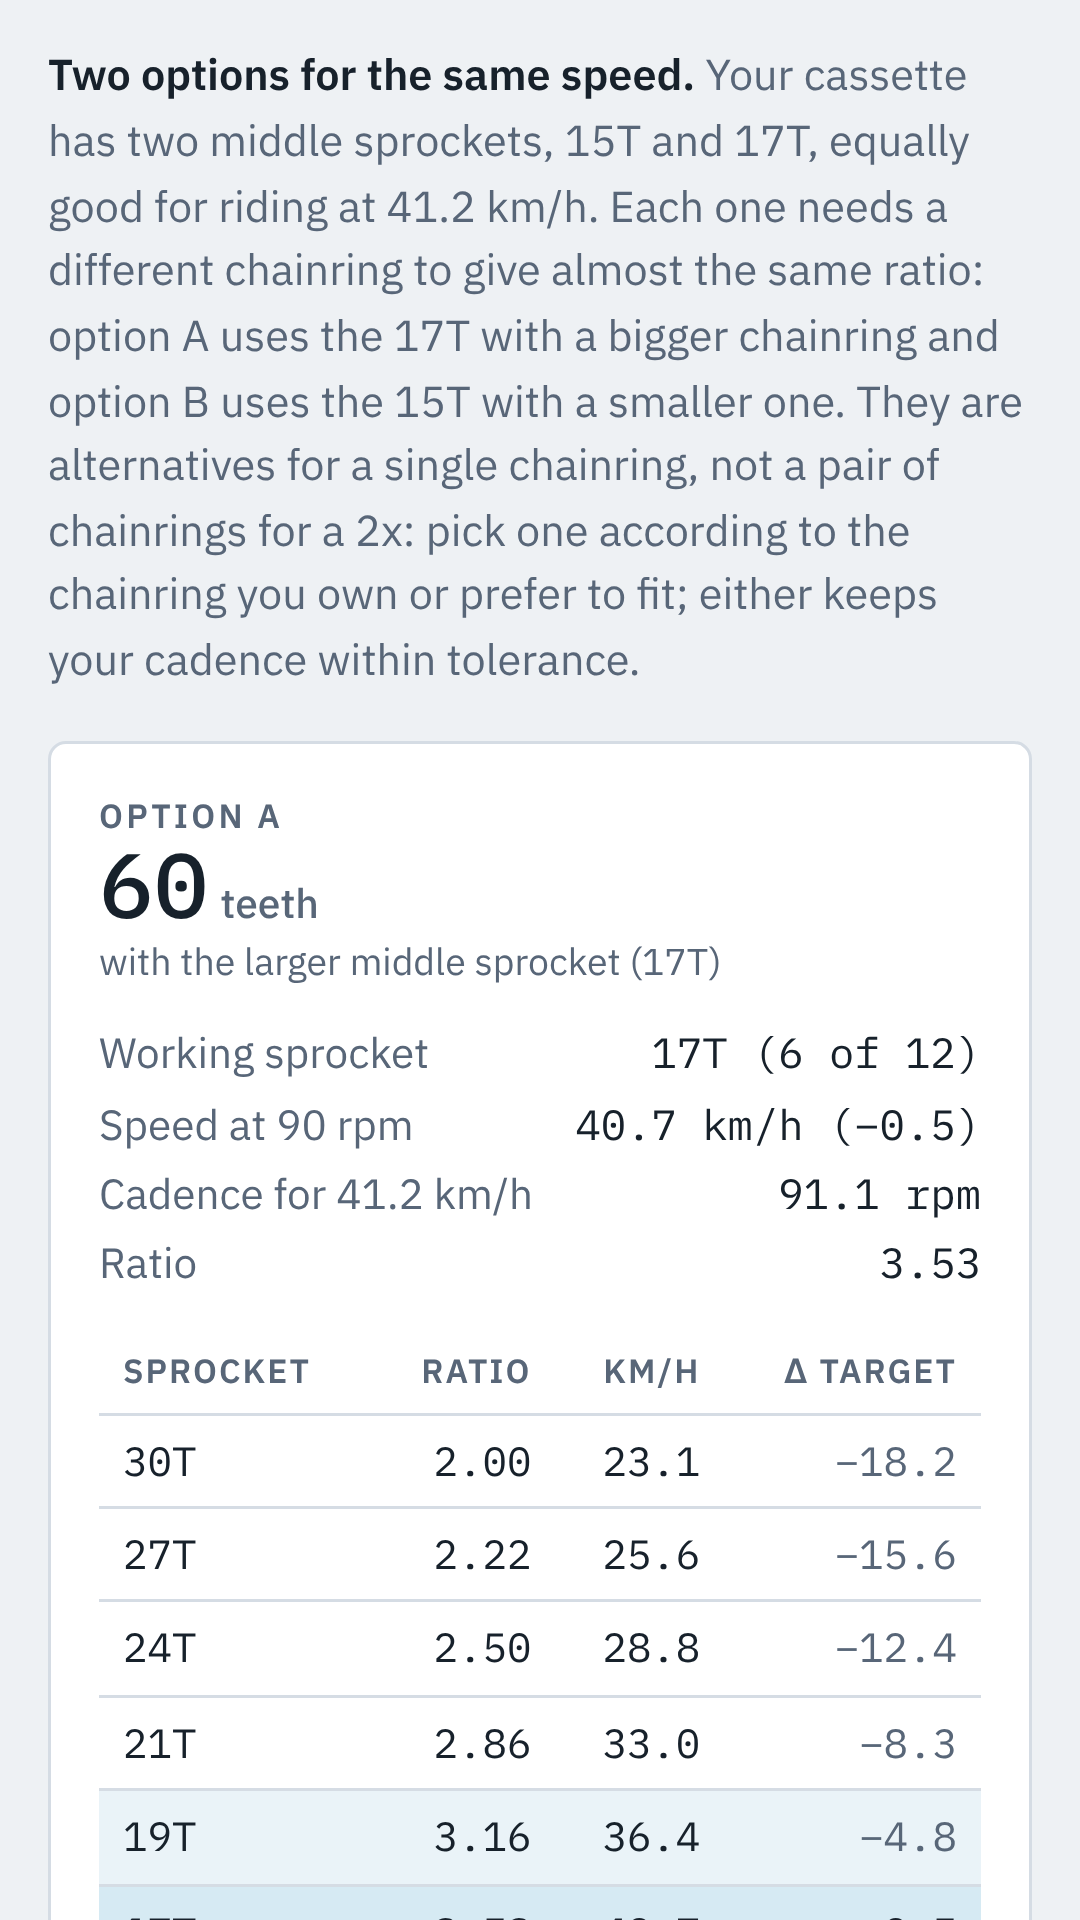
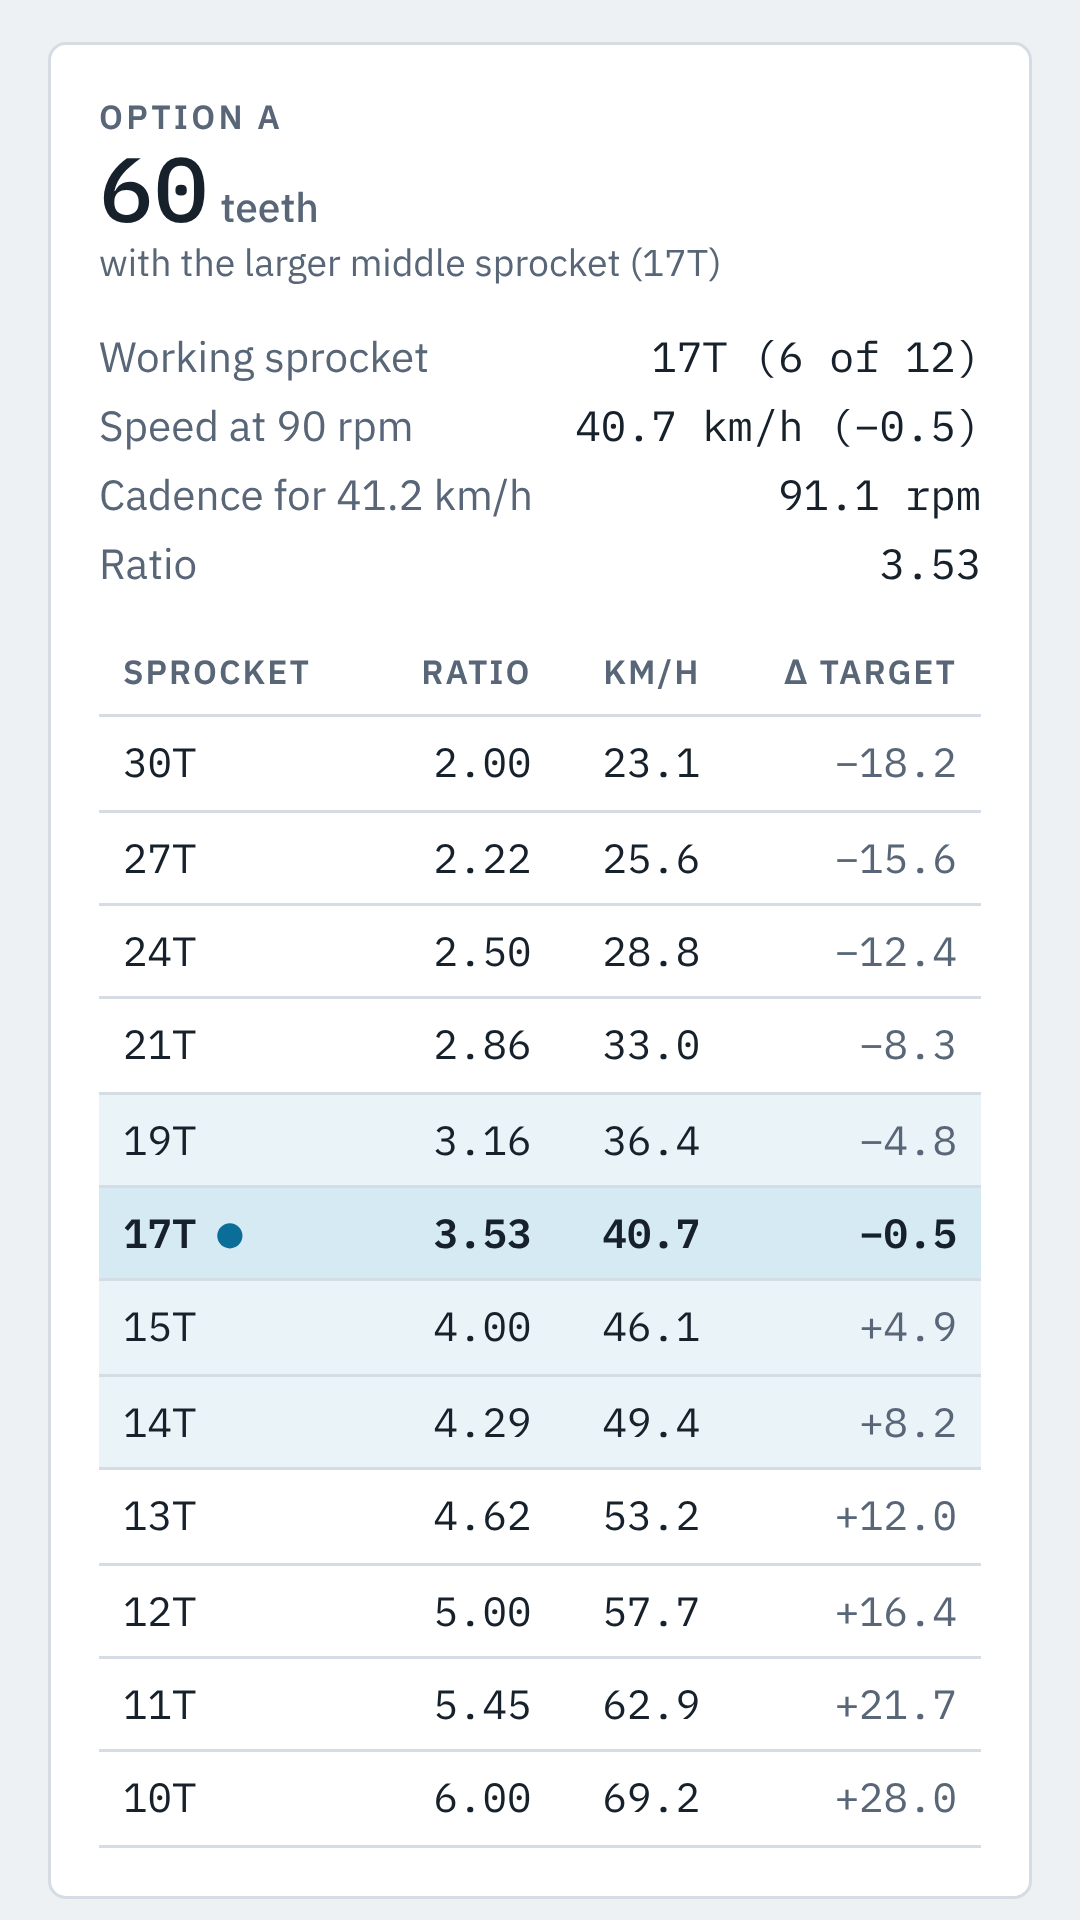
feat: vista «Cómo funciona» con icono de información en la esquina superior derecha
Los textos explicativos (opciones A/B, criterio, modelo, subidas, dentados y la
nota de plato fijo) salen de la vista principal y se muestran en un diálogo modal
que se abre con un icono ⓘ arriba a la derecha. Se cierra con ✕, fuera, Esc o el
botón atrás (se añade una entrada al historial). Alinea a la izquierda la primera
columna de la tabla de subidas. Capturas de la ficha regeneradas y nueva captura 7.

Claude-Session: https://claude.ai/code/session_01HU79VpV1XnotLDyT5Vd8zc

Changed region(s): [[0.0306, 0.0312, 0.9472, 1.0], [0.7333, 0.3438, 0.8861, 0.4062], [0.7944, 0.4375, 0.8861, 0.5]]

diff --git a/index.html b/index.html
@@ -55,7 +55,7 @@
   .wrap { max-width: 1120px; margin: 0 auto; display: flex; flex-direction: column; gap: 20px; }
   h1, h2, h3 { font-family: var(--f-display); font-weight: 600; margin: 0; text-wrap: balance; }
   h1 { font-size: 2rem; line-height: 1.1; letter-spacing: .005em; }
-  .top { display: flex; justify-content: space-between; align-items: flex-start; gap: 12px 24px; flex-wrap: wrap; }
+  .top { position: relative; padding-right: 48px; display: flex; justify-content: space-between; align-items: flex-start; gap: 12px 24px; flex-wrap: wrap; }
   .top > div:first-child { min-width: 0; flex: 1 1 320px; }
   #out { display: flex; flex-direction: column; gap: 16px; }
   .sub { color: var(--muted); margin: 4px 0 0; max-width: 62ch; }
@@ -107,8 +107,6 @@
   .chip { font-size: .68rem; text-transform: uppercase; letter-spacing: .08em; font-weight: 600; background: var(--warn-soft); color: var(--warn); padding: 2px 8px; border-radius: 3px; }
   .cards.one { grid-template-columns: minmax(0, 1fr); max-width: 520px; }
   @media (min-width: 700px) { .cards.two { grid-template-columns: repeat(2, minmax(0, 1fr)); max-width: 820px; } }
-  .expl { margin: 0; font-size: .9rem; color: var(--muted); max-width: 90ch; }
-  .expl strong { color: var(--ink); }
   .badge { font-size: .68rem; text-transform: uppercase; letter-spacing: .08em; font-weight: 600; background: var(--accent); color: var(--accent-ink); padding: 2px 8px; border-radius: 3px; }
   .big { font-family: var(--f-mono); font-size: 2.2rem; font-weight: 500; line-height: 1; }
   .big small { font-family: var(--f-body); font-size: .85rem; color: var(--muted); margin-left: 4px; }
@@ -131,9 +129,42 @@
   .matrix td.cell-target { background: var(--accent-soft); font-weight: 600; outline: 1px solid var(--accent); outline-offset: -1px; }
   .matrix td:first-child { font-weight: 600; background: var(--surface); position: sticky; left: 0; z-index: 1; }
   .matrix th:first-child { background: var(--surface); position: sticky; left: 0; z-index: 1; }
-  .notes { font-size: .85rem; color: var(--muted); display: flex; flex-direction: column; gap: 6px; }
-  .notes p { margin: 0; max-width: 90ch; }
+  .info-btn {
+    position: absolute; top: 0; right: 0; width: 40px; height: 40px; padding: 0; display: inline-flex; align-items: center; justify-content: center;
+    color: var(--ink); background: var(--surface); border: 1px solid var(--line); border-radius: 4px; cursor: pointer;
+  }
+  .info-btn:focus-visible, .info-x:focus-visible { outline: 2px solid var(--accent); outline-offset: 2px; }
+  html.noscroll { overflow: hidden; }
+  dialog#info {
+    padding: 0; border: 0; color: var(--ink); background: var(--surface); font: inherit;
+    width: 100%; max-width: none; height: 100%; max-height: none; margin: 0; border-radius: 0;
+  }
+  dialog#info[open] { display: flex; flex-direction: column; }
+  dialog#info::backdrop { background: rgba(0, 0, 0, .55); }
+  .info-head {
+    display: flex; align-items: center; justify-content: space-between; gap: 12px; flex: none;
+    padding: max(12px, env(safe-area-inset-top, 0px)) max(16px, env(safe-area-inset-right, 0px)) 12px max(16px, env(safe-area-inset-left, 0px));
+    border-bottom: 1px solid var(--line);
+  }
+  .info-head h2 { font-size: 1.3rem; }
+  .info-x {
+    font: inherit; font-size: 1.1rem; line-height: 1; width: 40px; height: 40px; padding: 0; cursor: pointer;
+    color: var(--ink); background: var(--surface); border: 1px solid var(--line); border-radius: 4px;
+  }
+  .info-body {
+    flex: 1 1 auto; overflow-y: auto; overscroll-behavior: contain; -webkit-overflow-scrolling: touch;
+    padding: 16px max(16px, env(safe-area-inset-right, 0px)) max(24px, env(safe-area-inset-bottom, 0px)) max(16px, env(safe-area-inset-left, 0px));
+    font-size: .95rem; line-height: 1.55;
+  }
+  .info-body p { margin: 0 0 14px; max-width: 70ch; }
+  .info-body strong { color: var(--ink); }
+  @media (min-width: 720px) {
+    dialog#info { width: min(720px, 92vw); height: auto; max-height: 86vh; margin: auto; border: 1px solid var(--line); border-radius: 8px; }
+    .info-head { padding: 14px 20px; }
+    .info-body { padding: 20px 20px 8px; }
+  }
   .climb td { text-align: right; line-height: 1.25; }
+  .climb td:first-child { text-align: left; }
   .climb td .w { display: block; }
   /* Sin opacity: crearía un contexto de apilamiento que se pinta sobre la columna fija */
   .climb td .pc { display: block; font-size: .72rem; color: var(--ink); color: color-mix(in srgb, var(--ink) 78%, transparent); }
@@ -165,6 +196,9 @@
       </div>
       <button type="button" id="themeBtn"></button>
     </div>
+    <button type="button" id="infoBtn" class="info-btn" aria-haspopup="dialog" data-i18n-aria="i_open">
+      <svg viewBox="0 0 24 24" width="22" height="22" aria-hidden="true" focusable="false"><circle cx="12" cy="12" r="9.5" fill="none" stroke="currentColor" stroke-width="2"/><circle cx="12" cy="7.7" r="1.4" fill="currentColor"/><path d="M12 11v6" stroke="currentColor" stroke-width="2" stroke-linecap="round"/></svg>
+    </button>
   </div>
 
   <section class="panel">
@@ -226,6 +260,14 @@
 
   <div id="out" aria-live="polite"></div>
 </div>
+
+<dialog id="info" aria-labelledby="infoTitle">
+  <div class="info-head">
+    <h2 id="infoTitle" data-i18n="i_title"></h2>
+    <button type="button" id="infoClose" class="info-x" data-i18n-aria="i_close"><span aria-hidden="true">✕</span></button>
+  </div>
+  <div class="info-body" id="infoBody"></div>
+</dialog>
 
 <script>
 // ==CALC-START==
@@ -399,6 +441,7 @@ var DICT = {
   es: {
     title: "Calculadora de desarrollos",
     sub: "Triatlón y contrarreloj. Encuentra el plato con la mejor línea de cadena para tu velocidad de carrera (piñones centrales del cassette, a tu cadencia), con dos opciones alternativas.",
+    i_title: "Cómo funciona", i_open: "Información: cómo funciona", i_close: "Cerrar",
     lbl_cassette: "Cassette instalado", lbl_custom: "Dientes del cassette (11–13)",
     lbl_power: "Potencia media objetivo (W)", lbl_cad: "Cadencia media objetivo (rpm)", lbl_cda: "CdA (m²)",
     adv: "Ajustes avanzados", lbl_mass: "Masa ciclista + bici (kg)", lbl_crr: "Crr (rodadura)", lbl_rho: "Densidad del aire (kg/m³)",
@@ -450,6 +493,7 @@ var DICT = {
   en: {
     title: "Gear calculator",
     sub: "Triathlon and time trial. Finds the chainring with the best chain line for your race speed (middle sprockets of the cassette, at your cadence): two alternative options.",
+    i_title: "How it works", i_open: "Information: how it works", i_close: "Close",
     lbl_cassette: "Installed cassette", lbl_custom: "Cassette teeth (11–13)",
     lbl_power: "Target average power (W)", lbl_cad: "Target average cadence (rpm)", lbl_cda: "CdA (m²)",
     adv: "Advanced settings", lbl_mass: "Rider + bike mass (kg)", lbl_crr: "Crr (rolling resistance)", lbl_rho: "Air density (kg/m³)",
@@ -517,6 +561,7 @@ function applyI18n() {
   document.documentElement.lang = lang;
   document.querySelectorAll("[data-i18n]").forEach(function (el) { el.textContent = t(el.getAttribute("data-i18n")); });
   document.querySelectorAll("[data-i18n-ph]").forEach(function (el) { el.setAttribute("placeholder", t(el.getAttribute("data-i18n-ph"))); });
+  document.querySelectorAll("[data-i18n-aria]").forEach(function (el) { var x = t(el.getAttribute("data-i18n-aria")); el.setAttribute("aria-label", x); el.setAttribute("title", x); });
   $("langEs").setAttribute("aria-pressed", lang === "es" ? "true" : "false");
   $("langEn").setAttribute("aria-pressed", lang === "en" ? "true" : "false");
   var dark = document.documentElement.getAttribute("data-theme") === "dark";
@@ -581,6 +626,17 @@ function renderCard(p, ctx) {
 var climbSel = "high";
 // Estado abierto/cerrado de los desplegables: la interfaz se reconstruye en cada cambio y, sin esto, se cerrarían al editar un campo o elegir una opción.
 var openState = { climb: false, matrix: false };
+// Datos del último cálculo que necesitan los textos de la vista «Cómo funciona» (null si las entradas no son válidas).
+var infoState = null;
+function infoHTML() {
+  var st = infoState, h = "";
+  if (st && st.expl) h += "<p>" + st.expl + "</p>";
+  if (st && st.fixedOn) h += "<p>" + t("n_fixed") + "</p>";
+  h += "<p>" + t("n_crit", { tol: fmt(st ? st.tol : 6, 0) }) + "</p><p>" + t("n_model") + "</p>";
+  h += "<p>" + t("n_climb") + " " + t("c_sub", { cad: fmt(st ? st.cad : 90, 0) }) + "</p>";
+  h += "<p><strong>" + t("c_zones") + ".</strong> " + t("z_src") + "</p><p>" + t("n_cogs") + "</p>";
+  return h;
+}
 function renderClimb(ctx) {
   var opts = ctx.fixed ? [{ label: "fixed", chain: ctx.fx.row.chain }] : ctx.res.props.map(function (p) { return { label: p.label, chain: p.row.chain }; });
   if (!opts.length || !ctx.modelOk) return "";
@@ -614,13 +670,12 @@ function renderClimb(ctx) {
     var rng = ["< 75 %", "75–85 %", "85–95 %", "95–105 %", "105–115 %", "> 115 %"];
     zones = '<h3 class="tag" style="margin-top:12px">' + t("c_zones") + '</h3><ul class="zlist">' + rng.map(function (x, i) {
       return '<li><b><i class="sw z' + i + '"></i>' + x + "</b><span>" + t("z" + i) + "</span></li>";
-    }).join("") + '</ul><p class="hint">' + t("z_src") + "</p>";
+    }).join("") + "</ul>";
   } else {
     zones = '<p class="hint">' + t("c_noftp") + "</p>";
   }
   return '<details class="panel" data-key="climb"' + (openState.climb ? " open" : "") + "><summary>" + t("c_title", { cad: fmt(ctx.cad, 0) }) + "</summary>" +
     '<div class="climbhead">' + seg + "</div>" +
-    '<p class="hint">' + t("c_sub", { cad: fmt(ctx.cad, 0) }) + "</p>" +
     '<div class="scroll"><table class="matrix climb"><thead>' + head + "</thead><tbody>" + body + "</tbody></table></div>" + legend + zones + "</details>";
 }
 
@@ -667,6 +722,7 @@ function render() {
   $("cmin").disabled = $("cmax").disabled = fixedOn;
   var kb = parseFloat($("kband").value); if (!(kb >= 1)) kb = null;
   var vf = parseFloat($("vforce").value);
+  infoState = null;
   var bad = [];
   if (!(cad >= 40)) bad.push(t("b_cad"));
   if (!(circ > 1500)) bad.push(t("b_wheel"));
@@ -685,6 +741,7 @@ function render() {
   var res = fixedOn ? { band: fx.band, tol: fx.tol, rows: [], fits: [] } : analyze(cogs, v, cad, circ, cmin, cmax, kb, num("tol"));
   var ftp = num("ftp");
   var modelOk = cda > 0 && mass > 0 && crr >= 0 && rho > 0 && eta > 0.5;
+  infoState = { cad: cad, tol: res.tol, fixedOn: fixedOn, expl: "" };
   var ctx = { cogs: cogs, cad: cad, circ: circ, v: v, res: res, fixed: fixedOn, fx: fx, o: o, ftp: ftp > 0 ? ftp : 0, modelOk: modelOk };
   var band = res.band;
   var ratio = v / (circ * cad * 0.00006);
@@ -706,13 +763,12 @@ function render() {
     html += '<div class="warn">' + t("w_none", { min: res.lo, max: res.hi, v: fmt(v, 1), tol: fmt(res.tol, 0), c: closest.chain, g: cogs[closest.idx], cn: fmt(closest.cadNeed, 1) }) + "</div>";
   } else {
     var lowC = cogs[Math.floor(band.center)], highC = cogs[Math.ceil(band.center)];
-    html += '<p class="expl">' + (lowC !== highC ? t("expl_two", { lo: lowC, hi: highC, v: fmt(v, 1) }) : t("expl_one", { g: lowC, v: fmt(v, 1) })) + "</p>";
+    infoState.expl = lowC !== highC ? t("expl_two", { lo: lowC, hi: highC, v: fmt(v, 1) }) : t("expl_one", { g: lowC, v: fmt(v, 1) });
     html += '<div class="cards ' + (res.props.length === 2 ? "two" : "one") + '">' + res.props.map(function (p) { return renderCard(p, ctx); }).join("") + "</div>";
     res.missing.forEach(function (m) { html += '<div class="warn">' + t("w_anchor", { g: cogs[m.idx], lo: res.lo, hi: res.hi, tol: fmt(res.tol, 0) }) + "</div>"; });
   }
   html += renderClimb(ctx);
   if (res.rows.length) html += renderMatrix(ctx);
-  html += '<div class="notes">' + (fixedOn ? "<p>" + t("n_fixed") + "</p>" : "") + "<p>" + t("n_crit", { tol: fmt(res.tol, 0) }) + "</p><p>" + t("n_model") + "</p><p>" + t("n_climb") + "</p><p>" + t("n_cogs") + "</p></div>";
   out.innerHTML = html;
 }
 
@@ -725,6 +781,22 @@ function render() {
   // Un solo evento por control: si un campo también re-renderizara al perder el foco («change»), el clic en el selector de plato de la tabla de subidas se perdería (el botón se reemplaza entre pulsar y soltar).
   document.querySelectorAll("input, select").forEach(function (el) { el.addEventListener(el.tagName === "SELECT" ? "change" : "input", render); });
   document.querySelectorAll("[data-lang]").forEach(function (b) { b.addEventListener("click", function () { setLang(b.getAttribute("data-lang")); }); });
+  // Vista «Cómo funciona»: diálogo modal (Esc, foco y fondo inerte nativos). Se añade una entrada al historial para que el botón «atrás» (Android) la cierre en vez de salir de la app.
+  var dlg = $("info"), pushed = false;
+  function openInfo() {
+    $("infoBody").innerHTML = infoHTML(); $("infoBody").scrollTop = 0;
+    if (typeof dlg.showModal !== "function") return;
+    dlg.showModal(); document.documentElement.classList.add("noscroll");
+    try { history.pushState({ info: 1 }, ""); pushed = true; } catch (e) { pushed = false; }
+  }
+  $("infoBtn").addEventListener("click", openInfo);
+  $("infoClose").addEventListener("click", function () { dlg.close(); });
+  dlg.addEventListener("click", function (e) { if (e.target === dlg) dlg.close(); });
+  dlg.addEventListener("close", function () {
+    document.documentElement.classList.remove("noscroll");
+    if (pushed) { pushed = false; try { history.back(); } catch (e) {} }
+  });
+  window.addEventListener("popstate", function () { if (dlg.open) { pushed = false; dlg.close(); } });
   // «toggle» no burbujea: se escucha en captura para recordar qué desplegables están abiertos.
   $("out").addEventListener("toggle", function (e) {
     var k = e.target && e.target.getAttribute ? e.target.getAttribute("data-key") : null;

diff --git a/tests/infra.test.js b/tests/infra.test.js
@@ -137,9 +137,25 @@ test("i18n: español e inglés tienen las mismas claves y toda clave usada exist
   const es = Object.keys(ctx.D.es).sort(), en = Object.keys(ctx.D.en).sort();
   assert.deepEqual(es, en, "claves distintas entre es y en");
   const usadas = new Set();
-  for (const m of html.matchAll(/data-i18n(?:-ph)?="([a-z0-9_]+)"/g)) usadas.add(m[1]);
+  for (const m of html.matchAll(/data-i18n(?:-ph|-aria)?="([a-z0-9_]+)"/g)) usadas.add(m[1]);
   for (const m of html.matchAll(/\bt\("([a-z0-9_]+)"\s*[,)]/g)) usadas.add(m[1]);
   for (let i = 0; i < 6; i++) usadas.add("z" + i); // rangos de %FTP: se construyen como "z" + i
   // Las claves que acaban en «_» son prefijos de claves compuestas en tiempo de ejecución (g_, sh_, tag_, z...).
   for (const k of usadas) if (!k.endsWith("_")) assert.ok(es.includes(k), `falta la clave «${k}»`);
+});
+
+test("vista de información: icono en la cabecera, diálogo propio y textos explicativos fuera de la vista principal", () => {
+  const top = html.slice(html.indexOf('<div class="top">'), html.indexOf('<section class="panel">'));
+  assert.match(top, /id="infoBtn"[^>]*data-i18n-aria="i_open"/, "falta el botón de información en la cabecera");
+  assert.match(html, /<dialog id="info" aria-labelledby="infoTitle">/);
+  assert.match(html, /id="infoClose"[^>]*data-i18n-aria="i_close"/);
+  const a = html.indexOf("function render()"), b = html.indexOf("// Inicio:");
+  assert.ok(a > 0 && b > a);
+  const render = html.slice(a, b);
+  const info = html.slice(html.indexOf("function infoHTML()"), html.indexOf("function infoHTML()") + 900);
+  for (const k of ["n_crit", "n_model", "n_climb", "n_cogs", "n_fixed", "c_sub", "z_src"]) {
+    assert.ok(!render.includes(`t("${k}"`), `«${k}» no debe pintarse en la vista principal`);
+    assert.ok(info.includes(`t("${k}"`), `«${k}» debe estar en la vista de información`);
+  }
+  assert.ok(!html.includes('class="expl"') && !html.includes('class="notes"'), "quedan bloques de texto en la vista principal");
 });

diff --git a/README.md b/README.md
@@ -19,7 +19,7 @@ Calculadora para triatlón y contrarreloj. Dado el cassette, la potencia media y
 1. Elige el cassette (o escribe los piñones en «Personalizado»).
 2. Indica la cadencia objetivo (90 rpm por defecto) y la potencia media (250 W por defecto); opcionalmente tu FTP, para ver el % de FTP en la tabla de subidas, y un plato fijo. El CdA (0,23 m² por defecto) y el resto de parámetros del modelo están en los ajustes avanzados. La velocidad objetivo se calcula con el modelo de abajo.
 3. Ajusta el rango de platos a simular (38–68 T por defecto) en los ajustes avanzados, o fija un plato concreto en el campo «Plato fijo».
-4. Lee las dos tarjetas (Opción A / Opción B) y la tabla de velocidades por marcha. Son **alternativas para un mismo plato** (no una pareja de platos de un 2x) y la explicación sobre ellas dice cuándo elegir cada una.
+4. Lee las dos tarjetas (Opción A / Opción B) y la tabla de velocidades por marcha. Son **alternativas para un mismo plato** (no una pareja de platos de un 2x) y la explicación sobre ellas dice cuándo elegir cada una. Esa explicación y las notas del cálculo (criterio, modelo, subidas, dentados) están en la vista **«Cómo funciona»**, que se abre con el icono ⓘ de la esquina superior derecha (se cierra con ✕, tocando fuera, con Esc o con el botón «atrás» del móvil).
 5. **Subidas.** El desplegable «Subidas» (cerrado por defecto, pensado para usuarios avanzados) da la potencia que cuesta mantener, a tu cadencia objetivo, la velocidad de cada piñón en pendientes del 0 al 15 % (elige Opción A u Opción B). Si indicas tu **FTP**, cada celda muestra también el % de FTP y se colorea según el esfuerzo típico de ese rango (leyenda bajo la tabla). Las celdas de más de 1000 W se ocultan.
 
 La versión instalada se ve bajo el título: `v1.0.0 · build abc1234 · 2026-10-23` (`desarrollo` si se abre `index.html` sin compilar).

diff --git a/docs/play-store/ficha.md b/docs/play-store/ficha.md
@@ -106,4 +106,4 @@ La categoría se elige en *Presencia en la tienda → Configuración de la app*.
 
 ## Gráficos
 
-En `docs/play-store/graficos/`: icono 512×512, gráfico de funciones 1024×500 y 6 capturas de teléfono 1080×1920 en español (`captura-es-*`) y en inglés (`captura-en-*`): inicio, resultado, las dos opciones de plato, modo oscuro, plato fijo y subidas. Sube las de cada idioma a su traducción.
+En `docs/play-store/graficos/`: icono 512×512, gráfico de funciones 1024×500 y 7 capturas de teléfono 1080×1920 en español (`captura-es-*`) y en inglés (`captura-en-*`): inicio, resultado, las dos opciones de plato, modo oscuro, plato fijo, subidas y la vista de información («Cómo funciona», `*-7-informacion`). Sube las de cada idioma a su traducción.
